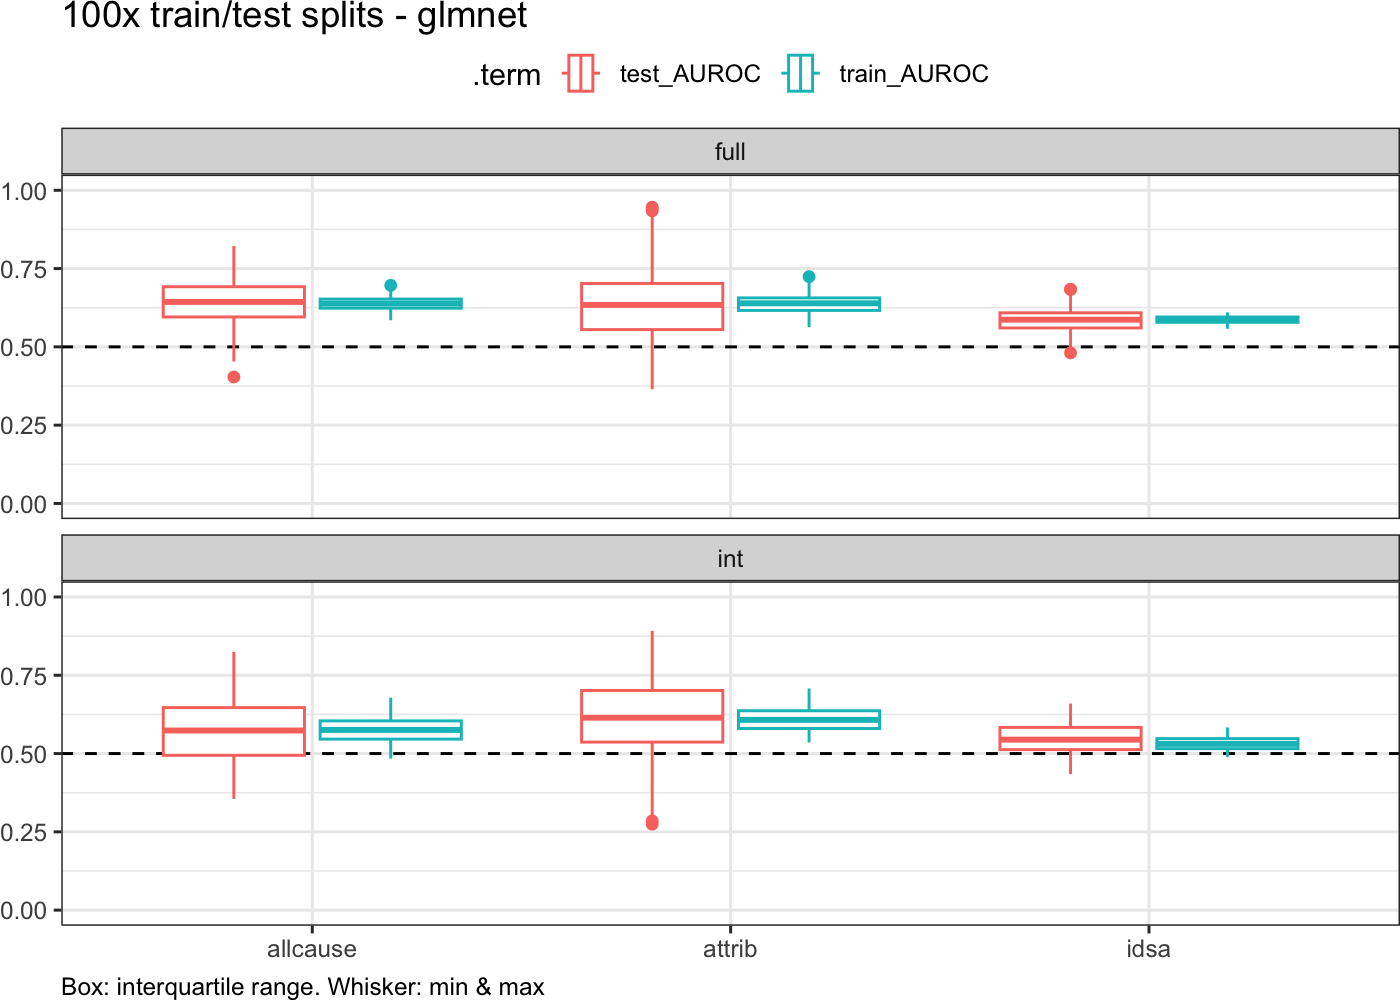
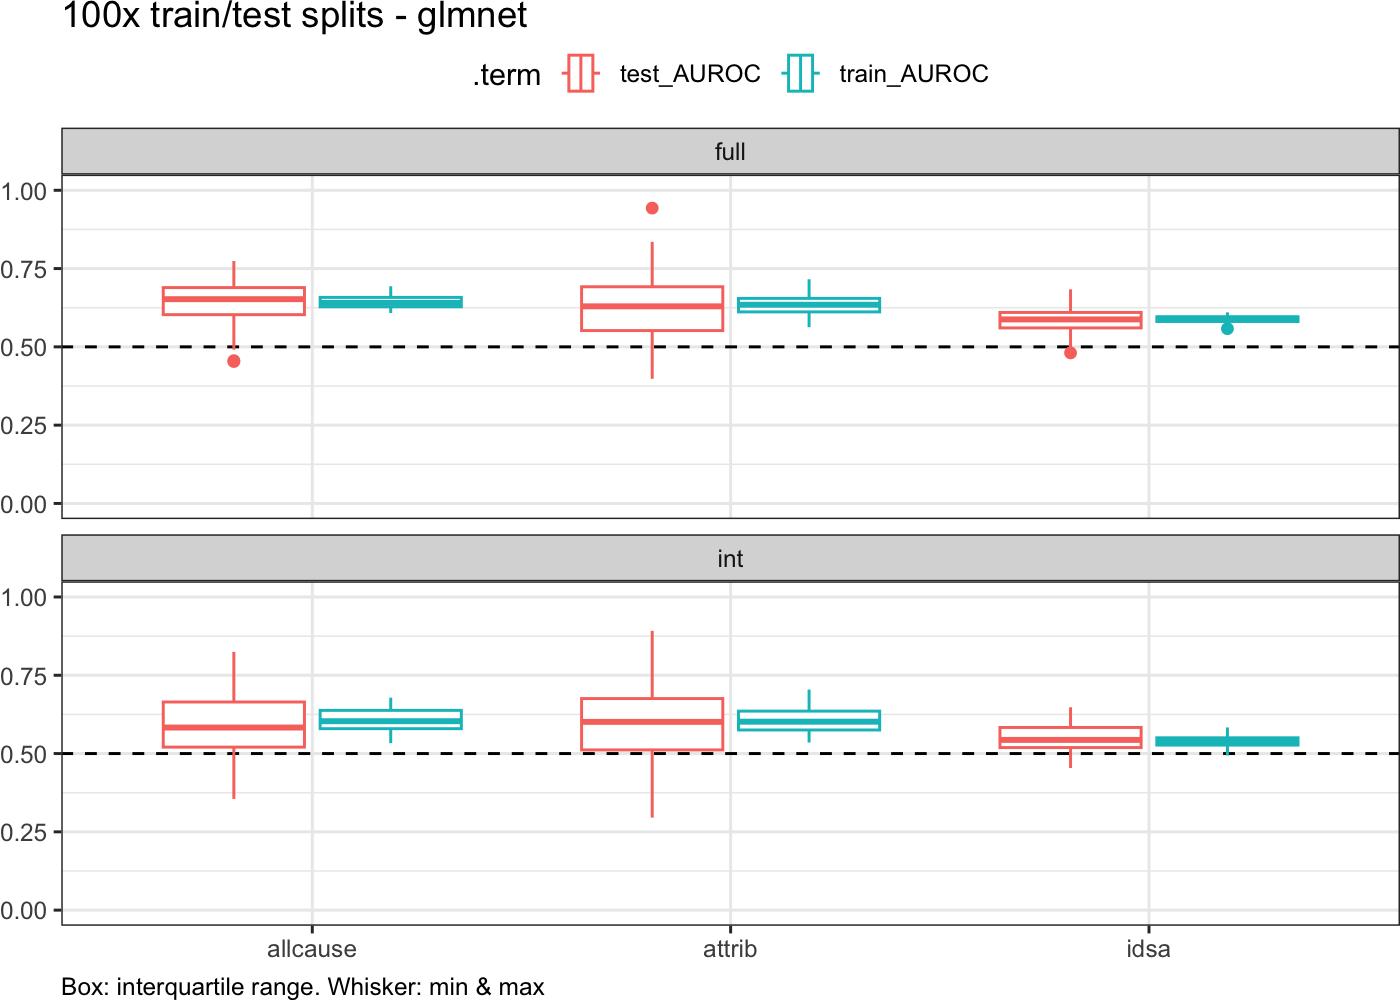
compare OTU vs genus

diff --git a/workflow/notebooks/temporal-split.md b/workflow/notebooks/temporal-split.md
@@ -131,23 +131,25 @@ int_pctl(boots, perf) %>%
 
 | term              |    .lower | .estimate |    .upper | .alpha | .method    |
 |:------------------|----------:|----------:|----------:|-------:|:-----------|
-| Accuracy          | 0.5324176 | 0.6494505 | 0.7142857 |   0.05 | percentile |
-| AUC               | 0.4454062 | 0.5273813 | 0.6231094 |   0.05 | percentile |
+| Accuracy          | 0.6288462 | 0.6736264 | 0.7263736 |   0.05 | percentile |
+| AUC               | 0.4580924 | 0.5419496 | 0.6284420 |   0.05 | percentile |
 | Balanced_Accuracy | 0.5000000 | 0.5000000 | 0.5000000 |   0.05 | percentile |
 | cv_metric_AUC     | 0.5290527 | 0.5290527 | 0.5290527 |   0.05 | percentile |
-| Detection_Rate    | 0.0000000 | 0.3780220 | 0.7008242 |   0.05 | percentile |
-| F1                | 0.6929690 | 0.7708351 | 0.8248534 |   0.05 | percentile |
+| Detection_Rate    | 0.1409341 | 0.6098901 | 0.7263736 |   0.05 | percentile |
+| F1                | 0.7719209 | 0.8074163 | 0.8421174 |   0.05 | percentile |
 | Kappa             | 0.0000000 | 0.0000000 | 0.0000000 |   0.05 | percentile |
-| logLoss           | 0.6057080 | 0.6542805 | 0.7406752 |   0.05 | percentile |
-| Neg_Pred_Value    | 0.6288462 | 0.6785714 | 0.7142857 |   0.05 | percentile |
-| Pos_Pred_Value    | 0.5302198 | 0.6300366 | 0.7019231 |   0.05 | percentile |
-| prAUC             | 0.4542197 | 0.5003130 | 0.5643794 |   0.05 | percentile |
-| Precision         | 0.5302198 | 0.6300366 | 0.7019231 |   0.05 | percentile |
-| Recall            | 0.0000000 | 0.6000000 | 1.0000000 |   0.05 | percentile |
-| Sensitivity       | 0.0000000 | 0.6000000 | 1.0000000 |   0.05 | percentile |
-| Specificity       | 0.0000000 | 0.4000000 | 1.0000000 |   0.05 | percentile |
+| logLoss           | 0.5928571 | 0.6364488 | 0.6719680 |   0.05 | percentile |
+| Neg_Pred_Value    | 0.6373626 | 0.6373626 | 0.6373626 |   0.05 | percentile |
+| Pos_Pred_Value    | 0.6285714 | 0.6776557 | 0.7274725 |   0.05 | percentile |
+| prAUC             | 0.4589573 | 0.5073620 | 0.5632115 |   0.05 | percentile |
+| Precision         | 0.6285714 | 0.6776557 | 0.7274725 |   0.05 | percentile |
+| Recall            | 0.2250000 | 0.9000000 | 1.0000000 |   0.05 | percentile |
+| Sensitivity       | 0.2250000 | 0.9000000 | 1.0000000 |   0.05 | percentile |
+| Specificity       | 0.0000000 | 0.1000000 | 0.7750000 |   0.05 | percentile |
 
 ## Plot performance
+
+### temporal split
 
 ``` r
 perf_dat <- read_csv(here("results", "temporal-split", "performance_results.csv"))
@@ -166,11 +168,10 @@ perf_temp_plot
 
 ![](figures/temporal-split_perf-95-ci-1.png)<!-- -->
 
-### vs 100x train/test splits
+### 100x train/test splits
 
 ``` r
 perf_dat_100 <- data.table::fread(here("results", "performance_results_aggregated.csv")) %>%
-    filter(trainfrac == 0.8, taxlevel == "OTU") %>%
     pivot_longer(c("cv_metric_AUC", "AUC"), names_to = ".term", values_to = ".estimate") %>%
     mutate(.term = case_when(.term == "cv_metric_AUC" ~ "train_AUROC", .term == "AUC" ~
         "test_AUROC", TRUE ~ .term)) %>%
@@ -180,7 +181,7 @@ perf_dat_100 <- data.table::fread(here("results", "performance_results_aggregate
 
 ``` r
 perf_dat_100 %>%
-    filter(method == "rf") %>%
+    filter(method == "rf", trainfrac == 0.8, taxlevel == "OTU") %>%
     group_by(dataset, outcome, .term) %>%
     summarize(median_est = round(median(.estimate), 3)) %>%
     pivot_wider(names_from = dataset, values_from = median_est, names_prefix = "median_perf_") %>%
@@ -199,7 +200,7 @@ perf_dat_100 %>%
 
 ``` r
 perf_dat_100 %>%
-    filter(method == "glmnet") %>%
+    filter(method == "glmnet", trainfrac == 0.8, taxlevel == "OTU") %>%
     group_by(dataset, outcome, .term) %>%
     summarize(median_est = round(median(.estimate), 3)) %>%
     pivot_wider(names_from = dataset, values_from = median_est, names_prefix = "median_perf_") %>%
@@ -218,6 +219,7 @@ perf_dat_100 %>%
 
 ``` r
 perf_100_glmnet_plot <- perf_dat_100 %>%
+    filter(method == "glmnet", trainfrac == 0.8, taxlevel == "OTU") %>%
     ggplot(aes(x = .estimate, y = outcome, color = .term)) + geom_vline(xintercept = 0.5,
     linetype = "dashed") + geom_boxplot() + xlim(0, 1) + facet_wrap("dataset", ncol = 1) +
     coord_flip() + labs(title = "100x train/test splits - glmnet", caption = "Box: interquartile range. Whisker: min & max") +
@@ -230,7 +232,7 @@ perf_100_glmnet_plot
 
 ``` r
 perf_100_rf_plot <- perf_dat_100 %>%
-    filter(method == "rf") %>%
+    filter(method == "rf", trainfrac == 0.8, taxlevel == "OTU") %>%
     ggplot(aes(x = .estimate, y = outcome, color = .term)) + geom_vline(xintercept = 0.5,
     linetype = "dashed") + geom_boxplot() + xlim(0, 1) + facet_wrap("dataset", ncol = 2) +
     labs(title = "100x train/test splits - rf", caption = "Box: interquartile range. Whisker: min & max") +
@@ -240,6 +242,23 @@ perf_100_rf_plot
 ```
 
 ![](figures/perf_100_rf-1.png)<!-- -->
+
+#### 100 splits - OTU vs genus
+
+``` r
+perf_dat_100 %>%
+    filter(method == "glmnet", trainfrac == 0.8) %>%
+    ggplot(aes(x = .estimate, y = outcome, color = .term)) + geom_vline(xintercept = 0.5,
+    linetype = "dashed") + geom_boxplot() + xlim(0, 1) + facet_wrap(c("dataset",
+    "taxlevel")) + coord_flip() + labs(title = "100x train/test splits - glmnet",
+    caption = "Box: interquartile range. Whisker: min & max") + theme_sovacool() +
+    theme(legend.position = "top", axis.title.x = element_blank(), axis.title.y = element_blank(),
+        plot.caption = element_text(hjust = 0))
+```
+
+![](figures/perf_100_otu_vs_genus-1.png)<!-- -->
+
+### temporal split vs 100x train/test splits
 
 ``` r
 cowplot::plot_grid(perf_temp_plot, perf_100_glmnet_plot, nrow = 1)
